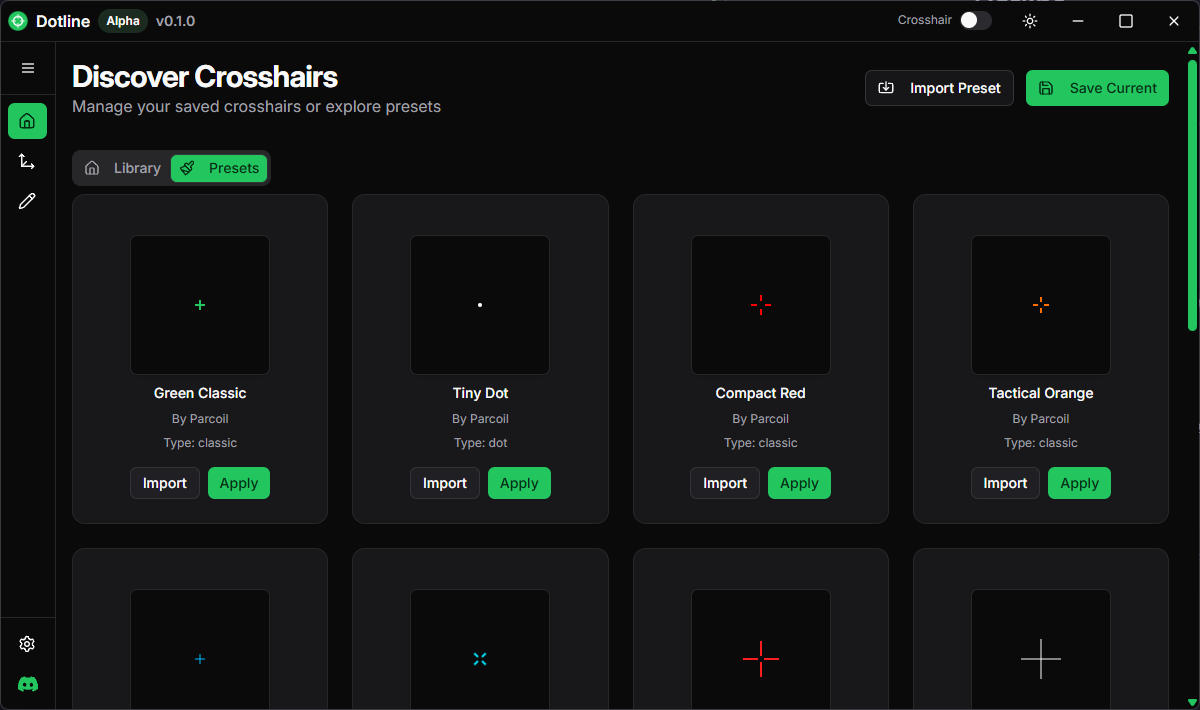
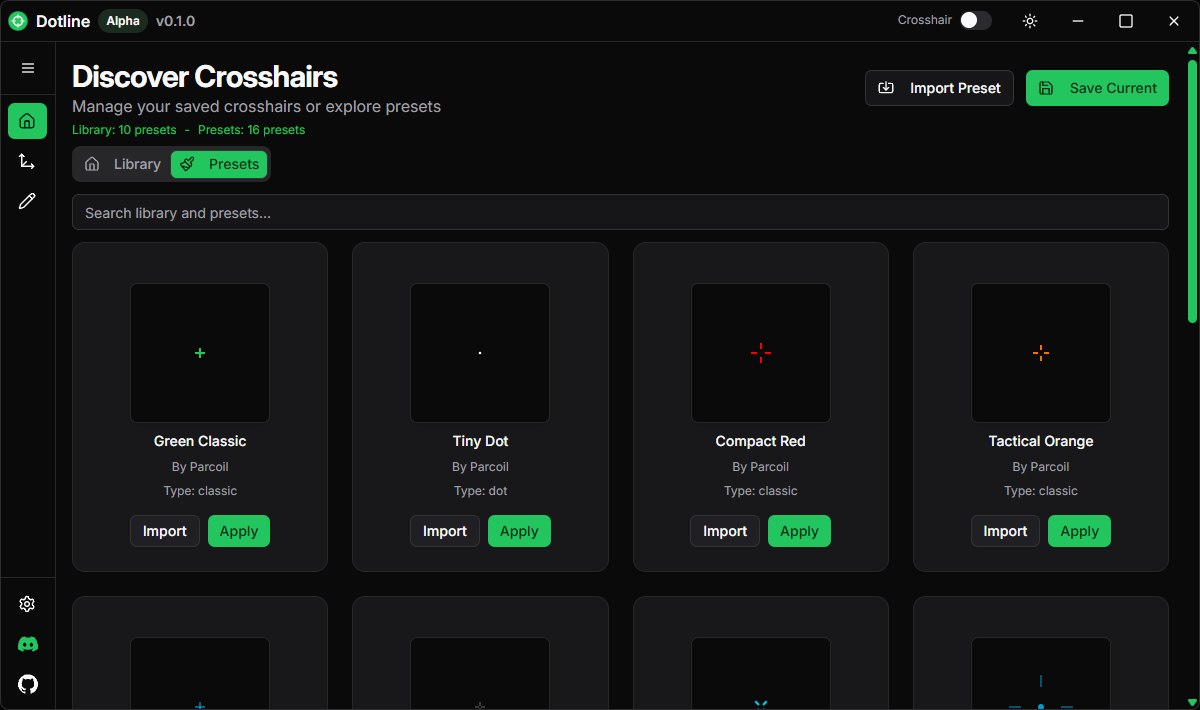
feat: clean up discover page, update screenshot

diff --git a/src/renderer/src/pages/discover.tsx b/src/renderer/src/pages/discover.tsx
@@ -17,6 +17,7 @@ import {
   AlertDialogHeader,
   AlertDialogTitle
 } from "@/components/ui/alert-dialog"
+import { Input } from "@/components/ui/input"
 
 const LS_KEY = "crosshairLibrary"
 
@@ -187,19 +188,13 @@ function Discover() {
     : presets
   return (
     <div className="space-y-8 px-4 md:px-0 max-w-[1200px] mx-auto">
-      <header className="flex flex-col sm:flex-row items-start sm:items-center justify-between gap-4">
+      <header className="flex flex-col sm:flex-row items-start sm:items-center justify-between gap-4 mb-1">
         <div>
           <h1 className="text-3xl font-bold tracking-tight">Discover Crosshairs</h1>
           <p className="text-muted-foreground">Manage your saved crosshairs or explore presets</p>
         </div>
 
         <div className="flex flex-wrap gap-3 items-center">
-          <input
-            value={query}
-            onChange={(e) => setQuery(e.target.value)}
-            placeholder="Search library and presets..."
-            className="h-9 w-64 md:w-72 lg:w-80 rounded-md border bg-background px-3 text-sm outline-none focus:ring-2 focus:ring-ring"
-          />
           <Button variant="outline" onClick={importPresetFile}>
             <Import className="w-4 h-4 mr-2" /> Import Preset
           </Button>
@@ -208,11 +203,13 @@ function Discover() {
           </Button>
         </div>
       </header>
+
       <div className="flex gap-2 mb-2">
-        <p className="text-xs text-muted-foreground">Library: {library.length} presets</p>
-        <p className="text-xs text-muted-foreground">-</p>
-        <p className="text-xs text-muted-foreground">Presets: {presets.length} presets</p>
+        <p className="text-xs text-primary">Library: {library.length} presets</p>
+        <p className="text-xs text-primary">-</p>
+        <p className="text-xs text-primary">Presets: {presets.length} presets</p>
       </div>
+
       <Tabs defaultValue="library">
         <TabsList>
           <TabsTrigger
@@ -229,7 +226,13 @@ function Discover() {
             <Paintbrush className="w-4 h-4 mr-2" /> Presets
           </TabsTrigger>
         </TabsList>
-
+        <div className="flex gap-2 mb-1 mt-1">
+          <Input
+            value={query}
+            onChange={(e) => setQuery(e.target.value)}
+            placeholder="Search library and presets..."
+          />
+        </div>
         <TabsContent value="library">
           <div className="grid grid-cols-2 sm:grid-cols-3 lg:grid-cols-4 gap-6">
             {filteredLibrary.length === 0 ? (
